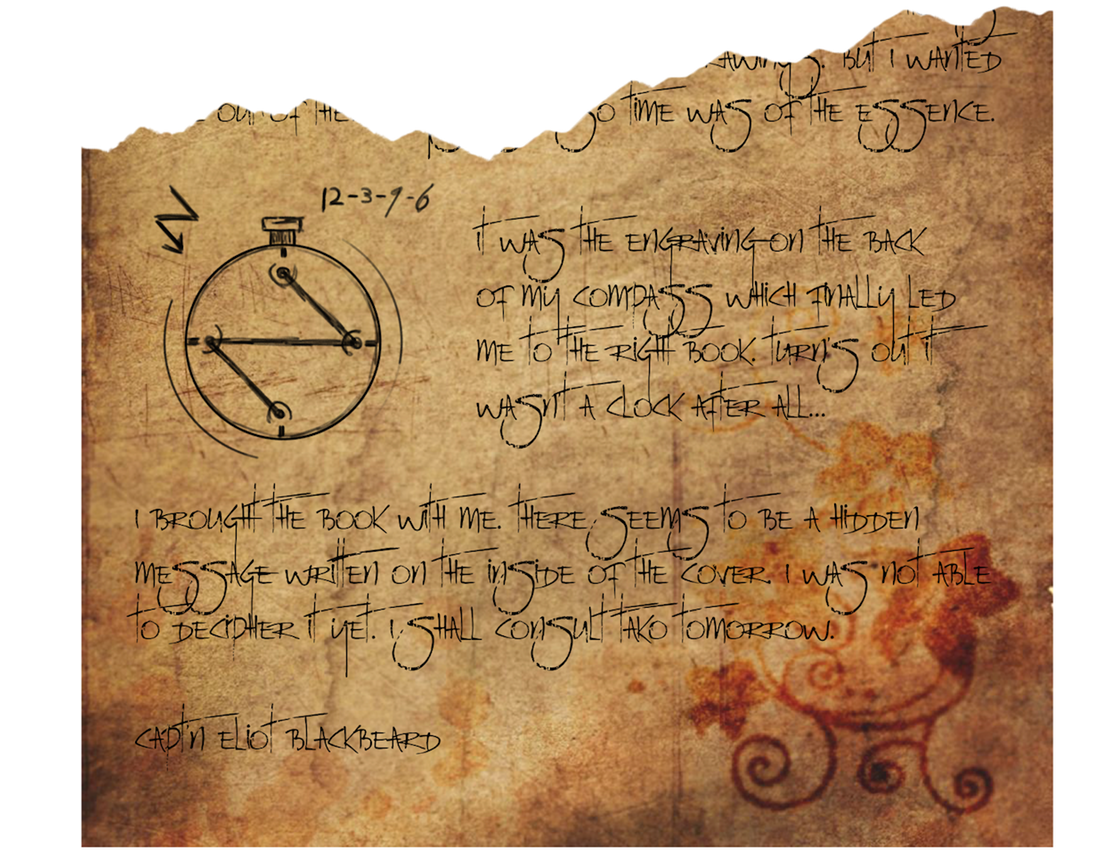
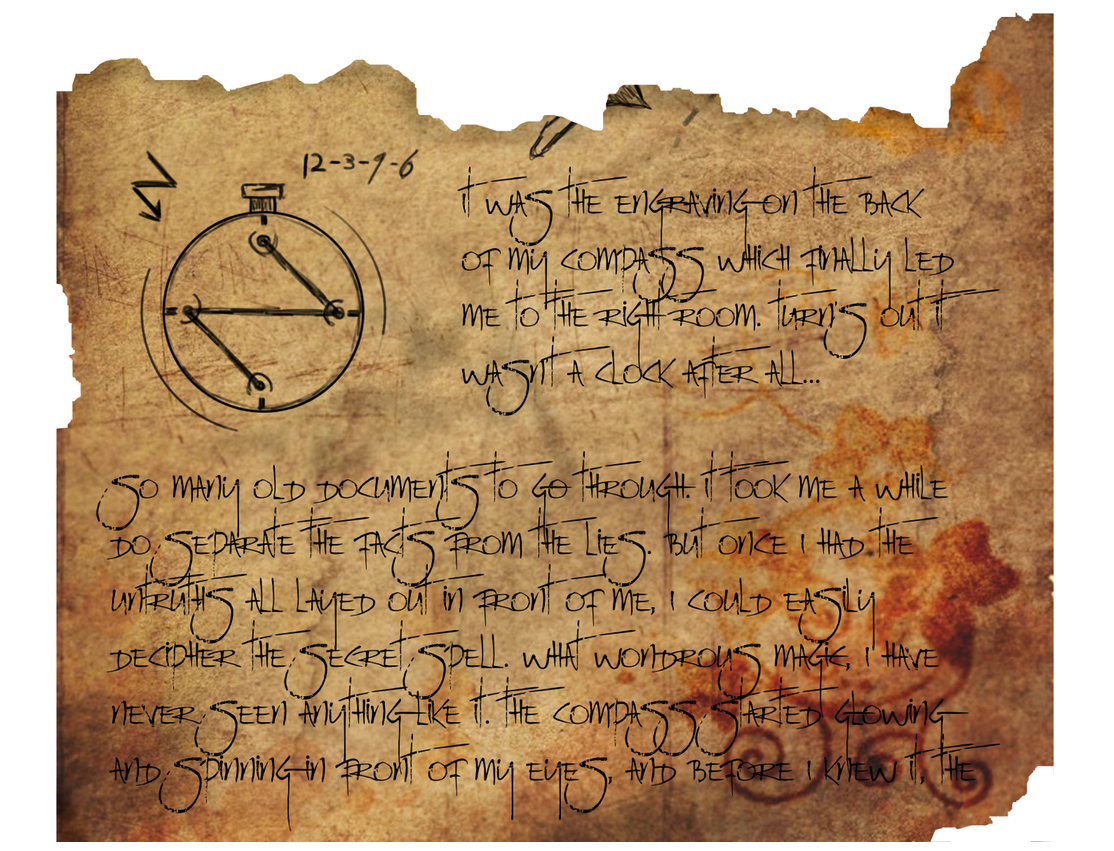
lots of treasure hunt improvements

diff --git a/src/app/migrations/1.3.0-beta.0.js b/src/app/migrations/1.3.0-beta.0.js
@@ -1,6 +1,7 @@
 var Preferences = require('../models/preferences');
 var pkg = require('../../../package.json');
 var async = require('async');
+var app = require('ampersand-app');
 var ConnectionCollection = require('../models/connection-collection');
 var _ = require('lodash');
 var debug = require('debug')('mongodb-compass:migrations:1.3.0-beta.0');
@@ -44,24 +45,34 @@ function renameMetricsVariables(done) {
 }
 
 /**
- * Renames the metrics preference variable to be more meaningful:
+ * Add a special connection to the favorites for the treasure hunt
  *
- * preferences.googleMaps --> preferences.enableMaps
+ * @param  {Function} done   callback when finished
+ */
+function disableMapsAndExplainPlans(done) {
+  app.preferences.save({enableMaps: false, showExplainPlanTab: false}, {
+    success: done.bind(null, null)
+  });
+}
+
+/**
+ * Add a special connection to the favorites for the treasure hunt
  *
  * @param  {Function} done   callback when finished
  */
 function addTreasureHuntConnection(done) {
   var connection = {
     _id: 'mongodb-world-treasure-hunt-connection',
-    hostname: 'data.mongodb.parts',
+    hostname: 'world2016-shard-00-00-uuein.mongodb.net',
     port: 27017,
     name: 'The Lost Temple',
-    last_used: new Date('1996-12-06T04:00:00-0500'),
-    is_favorite: true
-    // authentication: 'MONGODB',
-    // mongodb_username: 'foo',
-    // mongodb_password: 'bar',
-    // mongodb_database_name: 'admin'
+    last_used: new Date('1699-12-03T04:00:00-0500'),
+    is_favorite: true,
+    authentication: 'MONGODB',
+    mongodb_username: 'blackbeard',
+    mongodb_password: 'AmSPLBc3I2I6SyyE',
+    mongodb_database_name: 'admin',
+    ssl: 'UNVALIDATED'
   };
   var connections = new ConnectionCollection();
   connections.create(connection, {
@@ -78,7 +89,8 @@ module.exports = function(previousVersion, currentVersion, callback) {
   // do migration tasks here
   async.series([
     renameMetricsVariables,
-    addTreasureHuntConnection
+    addTreasureHuntConnection,
+    disableMapsAndExplainPlans
   ], function(err) {
     if (err) {
       return callback(err);

diff --git a/src/app/explain-plan/index.js b/src/app/explain-plan/index.js
@@ -1,6 +1,7 @@
 var View = require('ampersand-view');
 var State = require('ampersand-state');
 
+var $ = require('jQuery');
 var _ = require('lodash');
 var app = require('ampersand-app');
 var ExplainPlanModel = require('mongodb-explain-plan-model');
@@ -231,6 +232,26 @@ module.exports = View.extend({
     this.listenTo(this.parent, 'submit:query', this.onQueryChanged.bind(this));
     this.on('change:visible', this.onVisibleChanged.bind(this));
   },
+  // entire render method just for treasure hunt, remove afterwards
+  render: function() {
+    this.renderWithTemplate(this);
+    if (app.isFeatureEnabled('treasureHunt')) {
+      var $main = $(this.query('.main'));
+      var view = this;
+      // check if user has scrolled to the bottom of the explain tree
+      $main.on('scroll', function() {
+        var scrolledToBottom = ($main.scrollTop() + $main.innerHeight() >= $main[0].scrollHeight - 20);
+        if (view.indexMessageType === 'INDEX' &&
+          scrolledToBottom &&
+          view.activeDetailView === 'tree') {
+          $main.off('scroll');
+          debug('found the location!');
+          // user looked at the bottom of an indexed tree explain plan
+          metrics.track('Treasure Hunt', 'stage6');
+        }
+      });
+    }
+  },
   onModelSynced: function() {
     this.ns = this.model._id;
     this.fetchExplainPlan();
@@ -259,12 +280,6 @@ module.exports = View.extend({
         return debug('error', err);
       }
       view.explainPlan = new ExplainPlanModel(explain);
-
-      if (app.isFeatureEnabled('treasureHunt')) {
-        if (!view.explainPlan.isCollectionScan) {
-          metrics.track('Treasure Hunt', 'stage6');
-        }
-      }
 
       // remove old tree view
       if (view.treeSubview) {

diff --git a/src/app/home/collection.js b/src/app/home/collection.js
@@ -30,6 +30,11 @@ var MongoDBCollectionView = View.extend({
       default: 'schemaView',
       values: ['documentView', 'schemaView', 'explainView', 'indexView']
     },
+    showExplainPlanTab: {
+      type: 'boolean',
+      required: true,
+      default: false
+    },
     ns: 'string'
   },
   events: {
@@ -42,6 +47,10 @@ var MongoDBCollectionView = View.extend({
     },
     'model._id': {
       hook: 'collection-name'
+    },
+    showExplainPlanTab: {
+      type: 'toggle',
+      hook: 'explain-tab'
     },
     activeView: {
       type: 'switchClass',
@@ -98,6 +107,7 @@ var MongoDBCollectionView = View.extend({
     },
     explainView: {
       hook: 'explain-subview',
+      waitFor: 'showExplainPlanTab',
       prepareView: function(el) {
         return new ExplainView({
           el: el,
@@ -125,6 +135,7 @@ var MongoDBCollectionView = View.extend({
   initialize: function() {
     this.model = new MongoDBCollection();
     this.listenToAndRun(this.parent, 'change:ns', this.onCollectionChanged.bind(this));
+    this.showExplainPlanTab = app.isFeatureEnabled('showExplainPlanTab');
   },
   onTabClicked: function(e) {
     e.preventDefault();
@@ -166,6 +177,7 @@ var MongoDBCollectionView = View.extend({
   onCollectionFetched: function(model) {
     if (app.isFeatureEnabled('treasureHunt')) {
       if (model.getId() === 'news.news') {
+        // player finds the room with the scrolls (news.news collection)
         metrics.track('Treasure Hunt', 'stage3');
       }
     }

diff --git a/src/internal-packages/crud/lib/store/document-list-store.js b/src/internal-packages/crud/lib/store/document-list-store.js
@@ -29,6 +29,13 @@ const DocumentListStore = Reflux.createStore({
       app.dataService.count(ns, filter, {}, (err, count) => {
         var options = { limit: 20, sort: [[ '_id', 1 ]] };
         app.dataService.find(ns, filter, options, (error, documents) => {
+          if (app.isFeatureEnabled('treasureHunt')) {
+            if (documents.length === 1 &&
+              documents[0]._id.toHexString() === '576cd312d141109b51ae6b86') {
+              // user found the one document with the treasure
+              metrics.track('Treasure Hunt', 'stage7');
+            }
+          }
           this.trigger(documents, true, count);
         });
       });
@@ -46,13 +53,7 @@ const DocumentListStore = Reflux.createStore({
       var filter = app.queryOptions.query.serialize();
       var options = { skip: (currentPage * 20), limit: 20, sort: [[ '_id', 1 ]] };
       app.dataService.find(ns, filter, options, (error, documents) => {
-        if (app.isFeatureEnabled('treasureHunt')) {
-          if (documents.length === 1 && documents[0]._id === '') {
-            metrics.track('Treasure Hunt', 'stage7');
-          }
-        }
-
-          this.trigger(documents, false);
+        this.trigger(documents, false);
       });
     }
   }

diff --git a/src/app/index.js b/src/app/index.js
@@ -308,6 +308,7 @@ var Application = View.extend({
   render: function() {
     if (app.isFeatureEnabled('treasureHunt')) {
       if (pkg.version === '1.3.0-beta.1') {
+        // user upgraded to the next version
         metrics.track('Treasure Hunt', 'stage5');
       }
     }
@@ -401,7 +402,8 @@ app.extend({
         message: 'Connecting to MongoDB...'
       });
 
-      state.preferences.treasureHunt = (state.connection.hostname === 'data.mongodb.parts');
+      state.preferences.treasureHunt =
+        (state.connection.hostname === 'world2016-shard-00-00-uuein.mongodb.net');
 
       var DataService = require('mongodb-data-service');
       app.dataService = new DataService(state.connection)

diff --git a/src/app/metrics/index.js b/src/app/metrics/index.js
@@ -11,16 +11,16 @@ var features = require('./features');
 var debug = require('debug')('mongodb-compass:metrics');
 
 var INTERCOM_KEY = 'p57suhg7';
-var GA_KEY = 'UA-71150609-2';
+// var GA_KEY = 'UA-71150609-2';
 var BUGSNAG_KEY = '0d11ab5f4d97452cc83d3365c21b491c';
 var MIXPANEL_KEY = '6255131ccadb383ba609dae3f07631ad';
 
 module.exports = function() {
   metrics.configure({
-    ga: {
-      trackingId: GA_KEY,
-      enabled: app.preferences.trackUsageStatistics
-    },
+    // ga: {
+    //   trackingId: GA_KEY,
+    //   enabled: app.preferences.trackUsageStatistics
+    // },
     mixpanel: {
       apiToken: MIXPANEL_KEY,
       enabled: app.preferences.trackUsageStatistics

diff --git a/src/app/migrations/1.3.0-beta.1.js b/src/app/migrations/1.3.0-beta.1.js
@@ -1,0 +1,25 @@
+var async = require('async');
+var app = require('ampersand-app');
+
+/**
+ * Add a special connection to the favorites for the treasure hunt
+ *
+ * @param  {Function} done   callback when finished
+ */
+function enableMapsAndExplainPlans(done) {
+  app.preferences.save({enableMaps: true, showExplainPlanTab: true}, {
+    success: done.bind(null, null)
+  });
+}
+
+module.exports = function(previousVersion, currentVersion, callback) {
+  // do migration tasks here
+  async.series([
+    enableMapsAndExplainPlans
+  ], function(err) {
+    if (err) {
+      return callback(err);
+    }
+    callback(null, 'successful migration to 1.3.0-beta.1');
+  });
+};

diff --git a/src/app/refine-view/index.js b/src/app/refine-view/index.js
@@ -104,7 +104,9 @@ module.exports = AmpersandView.extend({
   onQueryBufferChanged: function() {
     this.editableQuery.rawString = EJSON.stringify(this.volatileQuery.serialize());
     if (app.isFeatureEnabled('treasureHunt')) {
-      if (this.editableQuery.cleanString === '{"a.a.a.a.a.a.a.a.a.a":"foo"}') {
+      var magicString = '"X.sand.more sand.dirt.more dirt.wet sand.more wet sand.earth.soil.mud.wood.treasure chest":"open me"';
+      if (_.contains(this.editableQuery.cleanString, magicString)) {
+        // opens the treasure chest
         metrics.track('Treasure Hunt', 'stage8');
       }
     }

diff --git a/src/app/models/sampled-schema.js b/src/app/models/sampled-schema.js
@@ -101,7 +101,8 @@ module.exports = Schema.extend({
     this.lastOptions = _.clone(options);
 
     if (app.isFeatureEnabled('treasureHunt')) {
-      if (options.query === {persistence: 'unique'}) {
+      if (this.ns === 'news.news' && options.query === {authenticity: 'unbelievable'}) {
+        // user sorted out the untrue statements and discovers the secret message
         metrics.track('Treasure Hunt', 'stage4');
       }
     }

diff --git a/src/app/identify/index.js b/src/app/identify/index.js
@@ -72,10 +72,7 @@ module.exports = View.extend({
     app.user.save(info);
     metrics.resources.get('User').set(info);
     metrics.trackers.get('intercom')._updateIntercom();
-    this.triggerStage1();
-  },
-  triggerStage1: function() {
-    // trigger treasure hunt `stage1` event
+    // stage one, player provided name/email, enters the "Lost Temple"
     metrics.track('Treasure Hunt', 'stage1');
   }
 });

diff --git a/src/app/migrations/index.js b/src/app/migrations/index.js
@@ -6,7 +6,8 @@ var electronApp = require('electron').remote.app;
 var migrations = {
   '1.1.2': require('./1.1.2'),
   '1.2.0': require('./1.2.0'),
-  '1.3.0-beta.0': require('./1.3.0-beta.0')
+  '1.3.0-beta.0': require('./1.3.0-beta.0'),
+  '1.3.0-beta.1': require('./1.3.0-beta.1')
 };
 
 var migrate = require('app-migrations')(migrations);

diff --git a/src/app/tour/index.js b/src/app/tour/index.js
@@ -159,6 +159,7 @@ var TourView = View.extend({
 
     if (app.isFeatureEnabled('treasureHunt')) {
       if (this.features[this.tourCount].image === 'diary-page-bottom.png') {
+        // player finds the bottom half of the diary page
         metrics.track('Treasure Hunt', 'stage2');
       }
     }
